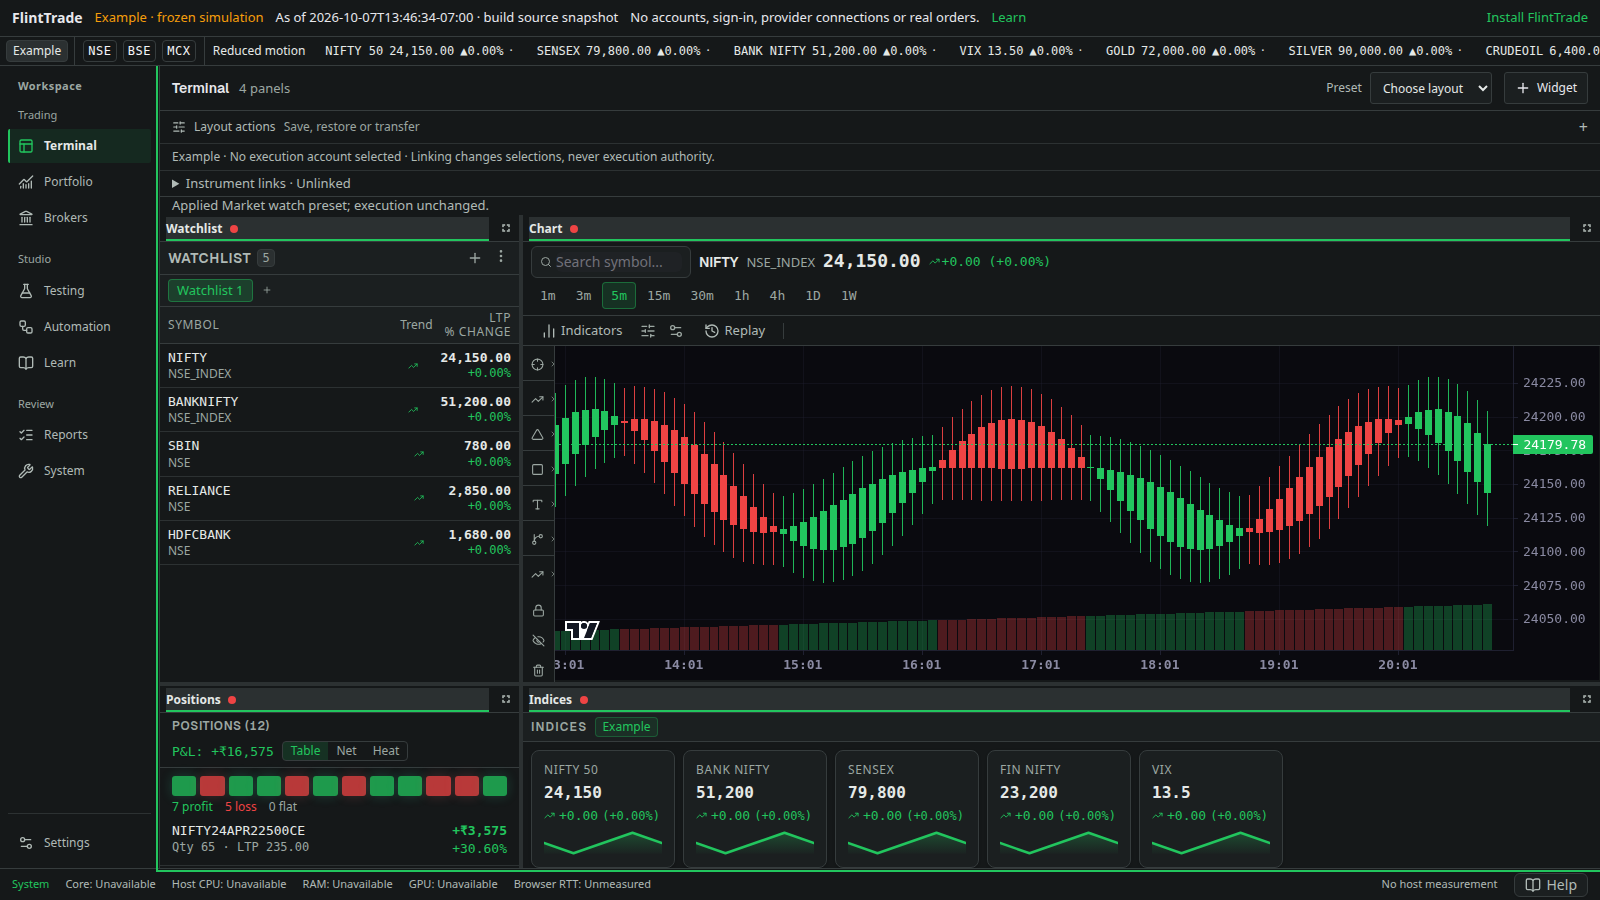
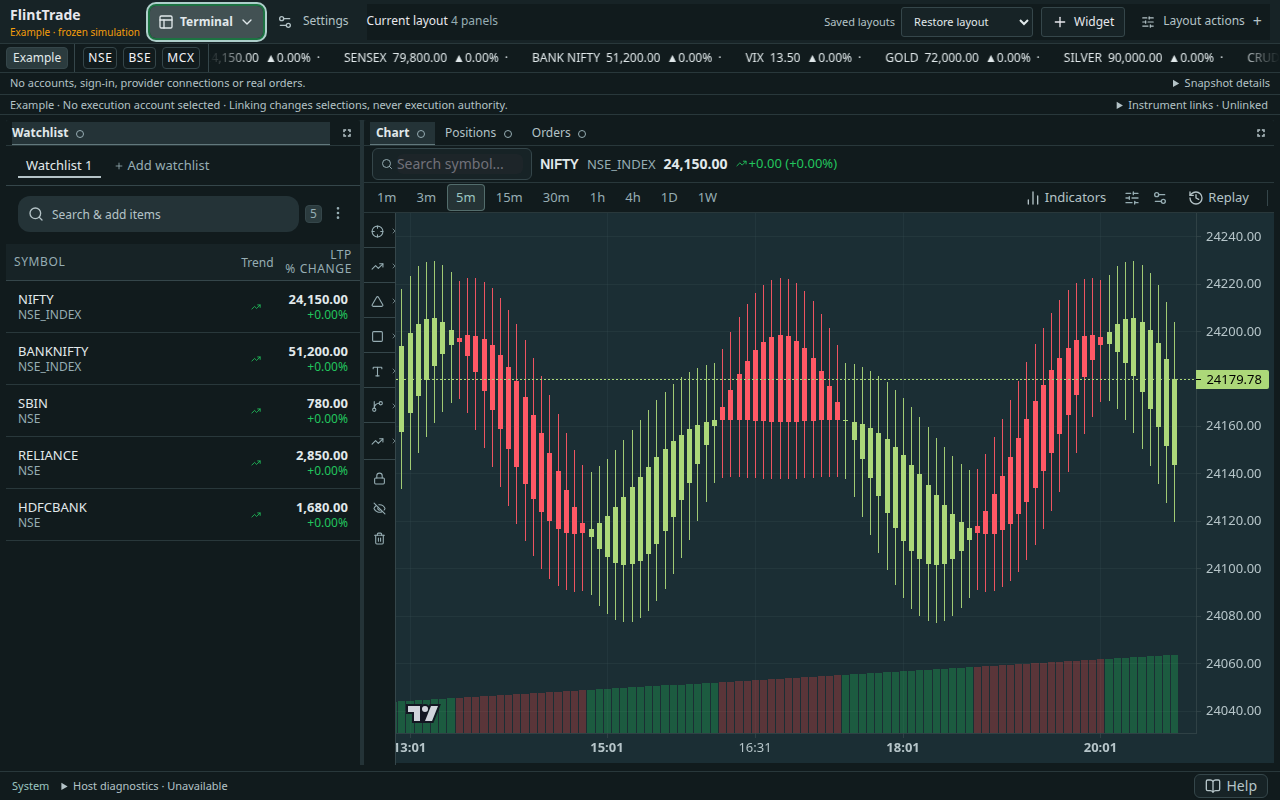
feat(site): add product entry and retain intro focus ownership
Add Explore entry, product-led post-intro content, complete docs
navigation and a metadata-free frozen-example workspace image.
Keep protected brand fragments and canonical assets unchanged.

Six focused regressions, production build and typecheck pass. Final
native focus and full site acceptance remain pending; preceding
browser evidence is not promoted onto the final focus correction.
Full unit projection and website policy CI also remain open.

diff --git a/packages/apps/site/src/components/site-entry-regression.test.tsx b/packages/apps/site/src/components/site-entry-regression.test.tsx
@@ -1,0 +1,75 @@
+/** @vitest-environment jsdom */
+import * as React from 'react';
+import { act } from 'react';
+import { createRoot } from 'react-dom/client';
+import { afterEach, beforeEach, expect, it, vi } from 'vitest';
+import { IntroHandoff } from './intro-handoff';
+import { ProductIntroduction } from './product-introduction';
+import ExplorePage from '../app/explore/page';
+let container: HTMLDivElement;
+let root: ReturnType<typeof createRoot>;
+let finish: () => void;
+let preference: EventTarget;
+let getAnimations: ReturnType<typeof vi.fn>;
+beforeEach(() => {
+  vi.stubGlobal('React', React); vi.stubGlobal('IS_REACT_ACT_ENVIRONMENT', true);
+  preference = new EventTarget();
+  vi.stubGlobal('matchMedia', () => preference);
+  vi.stubGlobal('requestAnimationFrame', (fn: FrameRequestCallback) => { fn(0); return 1; });
+  vi.stubGlobal('cancelAnimationFrame', vi.fn());
+  const finished = new Promise<void>(resolve => { finish = resolve; });
+  getAnimations = vi.fn(() => [{ effect: { getComputedTiming: () => ({ iterations: 1 }) }, finished }]);
+  Object.defineProperty(Element.prototype, 'getAnimations', { configurable: true, value: getAnimations });
+  container = document.createElement('div'); document.body.append(container); root = createRoot(container);
+});
+afterEach(async () => { await act(async () => root.unmount()); container.remove(); delete (Element.prototype as Partial<Element>).getAnimations; vi.restoreAllMocks(); vi.unstubAllGlobals(); });
+async function mount() {
+  await act(async () => root.render(<><button id="outside">Outside</button><IntroHandoff product={<h1>Product</h1>}><a href="/download">Install</a><a href="/docs">Docs</a></IntroHandoff></>));
+}
+it('keeps focused intro controls visible until focus leaves the boundary', async () => {
+  await mount(); const links = container.querySelectorAll('a'); links[0].focus();
+  await act(async () => finish());
+  expect(container.querySelector<HTMLElement>('[data-site-intro]')!.hidden).toBe(false);
+  expect(document.activeElement).toBe(links[0]);
+  await act(async () => links[1].focus());
+  expect(container.querySelector<HTMLElement>('[data-site-intro]')!.hidden).toBe(false);
+  await act(async () => container.querySelector<HTMLButtonElement>('#outside')!.focus());
+  expect(container.querySelector<HTMLElement>('[data-site-intro]')!.hidden).toBe(true);
+  expect(document.activeElement?.id).toBe('outside');
+});
+it('does not steal focus outside the intro when finite animations finish', async () => {
+  await mount(); container.querySelector<HTMLButtonElement>('#outside')!.focus();
+  await act(async () => finish());
+  expect(container.querySelector<HTMLElement>('[data-site-intro]')!.hidden).toBe(true);
+  expect(document.activeElement?.id).toBe('outside');
+});
+it('keeps the intro available without animation inspection', async () => {
+  delete (Element.prototype as Partial<Element>).getAnimations; await mount();
+  await act(async () => finish());
+  expect(container.querySelector<HTMLElement>('[data-site-intro]')!.hidden).toBe(false);
+});
+it('resamples finite animations when the motion preference changes', async () => {
+  await mount(); let finishReplacement!: () => void;
+  const finished = new Promise<void>(resolve => { finishReplacement = resolve; });
+  getAnimations.mockReturnValue([{ effect: { getComputedTiming: () => ({ iterations: 1 }) }, finished }]);
+  await act(async () => { preference.dispatchEvent(new Event('change')); finish(); });
+  expect(getAnimations).toHaveBeenCalledTimes(2);
+  expect(container.querySelector<HTMLElement>('[data-site-intro]')!.hidden).toBe(false);
+  await act(async () => finishReplacement());
+  expect(container.querySelector<HTMLElement>('[data-site-intro]')!.hidden).toBe(true);
+});
+it('removes the preference observer and ignores completion after unmount', async () => {
+  const remove = vi.spyOn(preference, 'removeEventListener'); await mount();
+  await act(async () => root.render(null)); await act(async () => finish());
+  expect(remove).toHaveBeenCalledWith('change', expect.any(Function));
+  preference.dispatchEvent(new Event('change')); expect(getAnimations).toHaveBeenCalledTimes(1);
+});
+it('keeps home to explore, but explore enters the generated app rather than itself', async () => {
+  await act(async () => root.render(<ProductIntroduction />));
+  expect(container.querySelector('.product-entry-actions a')?.getAttribute('href')).toBe('/explore');
+  await act(async () => root.render(<ExplorePage />));
+  expect(container.querySelector('.product-entry-actions a')?.getAttribute('href')).toBe('/demo-app/terminal');
+  expect(container.querySelector('.product-entry-actions a')?.textContent).toContain('Choose a layout');
+  expect(container.textContent).not.toMatch(/pending visual acceptance|current workspace imagery/i);
+  expect(container.textContent).toContain('No broker is connected and no orders are sent.');
+});

diff --git a/packages/apps/site/src/app/presentation.css b/packages/apps/site/src/app/presentation.css
@@ -549,3 +549,58 @@ html {
     padding-top: 32px;
   }
 }
+
+/* The intro boundary creates no box and never alters signature geometry.
+   It is retired only after its actual finite animations have settled. */
+.site-intro-boundary,
+.site-product-boundary { display: contents; }
+.site-intro-boundary[hidden],
+.site-product-boundary[hidden] { display: none; }
+
+.product-introduction {
+  position: relative;
+  z-index: 1;
+  padding: 64px 0 48px;
+  text-align: center;
+}
+.product-eyebrow { margin: 0 0 22px; color: var(--site-text-secondary); font-size: 12px; letter-spacing: .12em; text-transform: uppercase; }
+.product-introduction h1 { max-width: 960px; margin: 0 auto; font-size: clamp(40px, 6vw, 78px); line-height: 1.08; font-weight: 650; letter-spacing: -.045em; text-wrap: balance; }
+.product-introduction h1 span { color: var(--site-accent); }
+.product-introduction-copy { max-width: 620px; margin: 24px auto; color: var(--site-text-secondary); line-height: 1.7; font-size: 17px; text-wrap: pretty; }
+.product-entry-actions { display: flex; justify-content: center; flex-wrap: wrap; gap: 12px; margin: 28px 0 48px; }
+.product-entry-actions .button { border-radius: 999px; min-height: 48px; }
+.product-monitor { width: min(100%, 1080px); margin: 0 auto 56px; perspective: 1600px; }
+.product-monitor-screen { overflow: hidden; border: 10px solid #101819; border-bottom-width: 18px; border-radius: 14px; background: #101819; transform: rotateY(-7deg) rotateX(2deg); box-shadow: 14px 22px 70px #0004; }
+.product-monitor-screen img { display: block; width: 100%; height: auto; border-radius: 3px; }
+.product-monitor-stand { width: 140px; height: 52px; margin: 0 auto; background: linear-gradient(105deg, #304044, #182427); clip-path: polygon(22% 0, 78% 0, 88% 90%, 100% 95%, 100% 100%, 0 100%, 0 95%, 12% 90%); }
+.product-monitor figcaption { max-width: 760px; margin: 18px auto 0; color: var(--site-text-secondary); font-size: 12px; line-height: 1.6; }
+@media (max-width: 768px) { .product-monitor-screen { transform: none; border-width: 5px; border-bottom-width: 10px; border-radius: 8px; } .product-monitor-stand { height: 30px; width: 88px; } }
+.workspace-entry-grid { display: grid; grid-template-columns: repeat(3, minmax(0, 1fr)); gap: 20px; text-align: left; }
+.workspace-entry-grid > a { display: flex; flex-direction: column; min-width: 0; gap: 18px; padding: 28px; border: 1px solid var(--site-border); border-radius: 24px; background: var(--site-surface-card); }
+.workspace-entry-grid > a:hover { border-color: var(--site-accent); }
+.workspace-entry-grid .entry-number { font-size: 11px; color: var(--site-accent); letter-spacing: .12em; }
+.workspace-entry-grid strong { font-size: 25px; letter-spacing: -.025em; line-height: 1.2; }
+.workspace-entry-grid span:not(.entry-number) { color: var(--site-text-secondary); font-size: 14px; line-height: 1.65; }
+.workspace-entry-grid em { display: flex; align-items: center; gap: 8px; margin-top: auto; color: var(--site-accent); font-style: normal; font-size: 12px; line-height: 1.5; }
+.product-example-note { max-width: 790px; margin: 22px auto 0; color: var(--site-text-secondary); font-size: 12px; line-height: 1.6; }
+.product-section > .product-heading { margin-inline: auto; text-align: center; }
+.product-section > .product-heading p { margin-inline: auto; }
+.product-figure img { border-radius: 20px; }
+.journey-steps { display: grid; grid-template-columns: repeat(3, minmax(0, 1fr)); gap: 24px; padding: 0; list-style: none; }
+.journey-steps li { border-top: 2px solid var(--site-accent); padding-top: 22px; }
+.journey-steps strong { font-size: 20px; }
+.journey-steps p { color: var(--site-text-secondary); line-height: 1.7; font-size: 14px; margin: 16px 0; }
+.journey-steps a { color: var(--site-accent); font-size: 14px; }
+.site-footer nav { display: flex; flex-wrap: wrap; gap: 12px 24px; max-width: 700px; }
+.site-shell .subpage { max-width: 1180px; }
+.site-shell .subpage .feature-card { border-radius: 20px; padding: 28px; }
+.site-shell .subpage .feature-card h2 { margin-top: 16px; }
+.site-shell .subpage .code-panel { border-radius: 16px; }
+@media (max-width: 768px) {
+  .workspace-entry-grid,
+  .journey-steps { grid-template-columns: minmax(0, 1fr); }
+  .product-introduction { padding-top: 38px; }
+  .product-entry-actions { margin-bottom: 30px; }
+  .workspace-entry-grid > a { padding: 24px; }
+  .product-introduction-copy { font-size: 15px; }
+}

diff --git a/packages/apps/site/src/components/product-introduction.tsx b/packages/apps/site/src/components/product-introduction.tsx
@@ -1,0 +1,29 @@
+import { ArrowRight, ExternalLink } from 'lucide-react';
+import Link from 'next/link';
+import Image from 'next/image';
+
+/** Static post-intro composition. No market quotes or unqualified screenshot. */
+export function ProductIntroduction({ entry = 'explore' }: { entry?: 'explore' | 'app' }) {
+  return <section className="section product-introduction" aria-labelledby="workspace-heading">
+    <p className="product-eyebrow">FlintTrade · self-hosted workspace</p>
+    <h1 id="workspace-heading">Your market workspace.<br /><span>Your rules.</span></h1>
+    <p className="product-introduction-copy">Research, practise and review Indian markets. Choose a layout, explore with example data, then decide what to install.</p>
+    <div className="product-entry-actions">
+      {entry === 'app'
+        ? <a className="button primary" href="/demo-app/terminal">Choose a layout <ArrowRight size={18} aria-hidden="true" /></a>
+        : <Link className="button primary" href="/explore">Explore the workspace <ArrowRight size={18} aria-hidden="true" /></Link>}
+      <Link className="button secondary" href="/download">Install the web app</Link>
+    </div>
+    <figure className="product-monitor">
+      <div className="product-monitor-screen"><Image src="/product/trading.webp" width={1280} height={800} sizes="(max-width: 768px) 94vw, 1080px" alt="Trading workspace with frozen example data, no connected broker or real orders" /></div>
+      <div className="product-monitor-stand" aria-hidden="true" />
+      <figcaption>Trading workspace · frozen example data, not live market data or trading performance. No broker is connected and no orders are sent.</figcaption>
+    </figure>
+    <div className="workspace-entry-grid" aria-label="Explore FlintTrade workspaces">
+      <a href="/demo-app/terminal" target="_blank" rel="noopener noreferrer"><span className="entry-number">01 / TRADING</span><strong>Choose your layout.</strong><span>Charts, watchlists and account books. Save a layout without changing permissions.</span><em>Open Trading · example data <ExternalLink size={16} aria-hidden="true" /></em></a>
+      <a href="/demo-app/testing" target="_blank" rel="noopener noreferrer"><span className="entry-number">02 / STUDIO</span><strong>Give ideas room.</strong><span>Explore strategy configuration before a run. No provider connection is required to look around.</span><em>Open Studio · example data <ExternalLink size={16} aria-hidden="true" /></em></a>
+      <a href="/demo-app/reports" target="_blank" rel="noopener noreferrer"><span className="entry-number">03 / REVIEW</span><strong>Keep the evidence.</strong><span>Inspect example trade history and fees, separate from live outcomes.</span><em>Open Review · example data <ExternalLink size={16} aria-hidden="true" /></em></a>
+    </div>
+    <p className="product-example-note">Example data only. No broker is connected and no orders are sent. Explore the public demo before setting up your own workspace.</p>
+  </section>;
+}

diff --git a/packages/apps/site/src/components/intro-handoff.tsx b/packages/apps/site/src/components/intro-handoff.tsx
@@ -1,0 +1,56 @@
+'use client';
+
+import { useEffect, useRef, useState, type ReactNode } from 'react';
+
+/** Retire only the completed intro; never hide the user's keyboard focus. */
+export function IntroHandoff({ children, product }: { children: ReactNode; product: ReactNode }) {
+  const intro = useRef<HTMLDivElement>(null);
+  const [settled, setSettled] = useState(false);
+  useEffect(() => {
+    const element = intro.current;
+    // Keep the original content usable when animation inspection is unavailable.
+    if (!element?.getAnimations) return;
+    let disposed = false;
+    let ready = false;
+    let generation = 0;
+    let frame = 0;
+    const retire = () => {
+      if (!disposed && ready && !element.contains(document.activeElement)) setSettled(true);
+    };
+    // Focus may move between intro links. Inspect its final owner after focusout.
+    const onFocusOut = (event: FocusEvent) => {
+      // Native Tab dispatch can run microtasks before focusin. relatedTarget
+      // owns that transition; never retire between two controls in this intro.
+      if (event.relatedTarget instanceof Node && element.contains(event.relatedTarget)) return;
+      queueMicrotask(retire);
+    };
+    const observe = () => {
+      ready = false;
+      const current = ++generation;
+      cancelAnimationFrame(frame);
+      frame = requestAnimationFrame(() => {
+        const signature = element.getAnimations({ subtree: true }).filter((animation) =>
+          animation.effect?.getComputedTiming().iterations !== Infinity);
+        void Promise.allSettled(signature.map((animation) => animation.finished)).then(() => {
+          if (disposed || current !== generation) return;
+          ready = true;
+          retire();
+        });
+      });
+    };
+    const preference = typeof matchMedia === 'function' ? matchMedia('(prefers-reduced-motion: reduce)') : null;
+    element.addEventListener('focusout', onFocusOut);
+    preference?.addEventListener('change', observe);
+    observe();
+    return () => {
+      disposed = true;
+      cancelAnimationFrame(frame);
+      element.removeEventListener('focusout', onFocusOut);
+      preference?.removeEventListener('change', observe);
+    };
+  }, []);
+  return <>
+    <div ref={intro} className="site-intro-boundary" data-site-intro hidden={settled}>{children}</div>
+    <div className="site-product-boundary" data-site-product hidden={!settled}>{product}</div>
+  </>;
+}

diff --git a/packages/apps/site/src/app/explore/page.tsx b/packages/apps/site/src/app/explore/page.tsx
@@ -1,12 +1,29 @@
 import type { Metadata } from 'next';
-import { permanentRedirect } from 'next/navigation';
+import Link from 'next/link';
+import { ProductIntroduction } from '@/components/product-introduction';
+import { SiteHeader } from '@/components/site-header';
+import { SiteFooter } from '@/components/site-footer';
 
 export const metadata: Metadata = {
-  title: 'Demo (example data)',
-  description:
-    'Open the FlintTrade terminal demo as a full-page app experience.',
+  title: 'Explore the workspace',
+  description: 'Choose a FlintTrade public-demo workspace, explore layouts with example data, and read the setup requirements.',
 };
 
 export default function ExplorePage() {
-  permanentRedirect('/demo-app/welcome');
+  return <div className="site-shell product-site">
+    <SiteHeader activePath="/explore" />
+    <main id="site-content" tabIndex={-1}>
+      <ProductIntroduction entry="app" />
+      <section className="section product-section" aria-labelledby="explore-next">
+        <header className="product-heading"><h2 id="explore-next">From a first look to your own setup.</h2><p>The public demo is a frozen simulation, not a connected account. Layout selection and trading authority are separate.</p></header>
+        <ol className="journey-steps">
+          <li><strong>Explore with example data</strong><p>Open Trading, use the layout chooser and inspect the available panels. Public-demo values are not live prices or performance.</p><Link href="/demo-app/welcome" target="_blank" rel="noopener noreferrer">Start the demo (example data) ↗</Link></li>
+          <li><strong>Read the requirements</strong><p>Review supported workflows and current availability before installing. Native broker connections remain unavailable.</p><Link href="/docs/user-guide">Read the user guide →</Link></li>
+          <li><strong>Install, then practise</strong><p>Inspect the install scripts and choose your platform. Desktop downloads remain withheld until a complete verified release exists.</p><Link href="/download">Choose installation instructions →</Link></li>
+        </ol>
+        <div className="product-links"><Link href="/docs/disclaimer">Read the risk disclaimer →</Link><Link href="/docs/inventory">Inspect feature availability →</Link></div>
+      </section>
+    </main>
+    <SiteFooter />
+  </div>;
 }

diff --git a/packages/apps/site/src/components/intro-handoff.test.tsx b/packages/apps/site/src/components/intro-handoff.test.tsx
@@ -1,0 +1,31 @@
+/** @vitest-environment jsdom */
+import * as React from 'react';
+import { act } from 'react';
+import { createRoot } from 'react-dom/client';
+import { afterEach, expect, it, vi } from 'vitest';
+import { IntroHandoff } from './intro-handoff';
+afterEach(() => { vi.restoreAllMocks(); vi.unstubAllGlobals(); });
+it('waits for the actual finite signature, ignores continuous decoration, and retires only its own boundary', async () => {
+  vi.stubGlobal('React', React);
+  vi.stubGlobal('IS_REACT_ACT_ENVIRONMENT', true);
+  let finish!: () => void;
+  const finished = new Promise<void>((resolve) => { finish = resolve; });
+  const getAnimations = vi.fn(() => [
+    { effect: { getComputedTiming: () => ({ iterations: 1 }) }, finished },
+    { effect: { getComputedTiming: () => ({ iterations: Infinity }) }, finished: new Promise(() => {}) },
+  ]);
+  Object.defineProperty(Element.prototype, 'getAnimations', { configurable: true, value: getAnimations });
+  vi.stubGlobal('requestAnimationFrame', (fn: FrameRequestCallback) => { fn(0); return 1; });
+  vi.stubGlobal('cancelAnimationFrame', vi.fn());
+  const container = document.createElement('div'); document.body.append(container);
+  const root = createRoot(container);
+  try {
+    await act(async () => root.render(<IntroHandoff product={<h1>Product workspace</h1>}><section className="hero">Original signature</section></IntroHandoff>));
+    const intro = container.querySelector<HTMLElement>('[data-site-intro]')!;
+    const product = container.querySelector<HTMLElement>('[data-site-product]')!;
+    expect(intro.hidden).toBe(false); expect(product.hidden).toBe(true);
+    await act(async () => finish());
+    expect(intro.hidden).toBe(true); expect(product.hidden).toBe(false);
+    expect(intro.textContent).toBe('Original signature');
+  } finally { await act(async () => root.unmount()); container.remove(); delete (Element.prototype as Partial<Element>).getAnimations; }
+});

diff --git a/packages/apps/site/src/lib/live-demo-routing.test.ts b/packages/apps/site/src/lib/live-demo-routing.test.ts
@@ -51,7 +51,7 @@ describe('site sandbox demo routing', () => {
     expect(explorePage).not.toContain('<iframe');
   });
 
-  it('redirects /demo and /explore with HTTP 308 from next start', async () => {
+  it('redirects /demo and serves the real /explore entry from next start', async () => {
     const siteRoot = process.cwd();
     const nextBin = path.join(siteRoot, 'node_modules', 'next', 'dist', 'bin', 'next');
     await runProcess(process.execPath, [nextBin, 'build', '--webpack'], siteRoot);
@@ -82,7 +82,7 @@ describe('site sandbox demo routing', () => {
       }
       if (!ready) throw new Error(`next start did not become ready\n${output}`);
 
-      for (const route of ['/demo', '/explore']) {
+      for (const route of ['/demo']) {
         const response = await fetch(`http://127.0.0.1:${port}${route}`, {
           method: 'HEAD',
           redirect: 'manual',
@@ -91,6 +91,9 @@ describe('site sandbox demo routing', () => {
         const location = response.headers.get('location') ?? '';
         expect(new URL(location, `http://127.0.0.1:${port}`).pathname, route).toBe('/demo-app/welcome');
       }
+      const explore = await fetch(`http://127.0.0.1:${port}/explore`);
+      expect(explore.status).toBe(200);
+      expect(await explore.text()).toContain('Choose your layout.');
     } finally {
       child.kill('SIGTERM');
     }

diff --git a/packages/apps/site/src/app/page.tsx b/packages/apps/site/src/app/page.tsx
@@ -4,6 +4,8 @@ import Link from 'next/link';
 
 import { HeroCinematic } from '@/components/hero-cinematic';
 import { ProductOverview } from '@/components/product-overview';
+import { ProductIntroduction } from '@/components/product-introduction';
+import { IntroHandoff } from '@/components/intro-handoff';
 import SiteScrollWorld from '@/components/site-scroll-world';
 import { SiteFooter } from '@/components/site-footer';
 import { SiteHeader } from '@/components/site-header';
@@ -44,6 +46,7 @@ export default async function HomePage() {
       <SiteHeader />
       <main id="site-content" tabIndex={-1}>
 
+      <IntroHandoff product={<ProductIntroduction />}>
       <section className="section hero" data-scroll-chapter="0">
         <div className="hero-copy">
           <div className="hero-logo-stage" aria-hidden="true">
@@ -97,6 +100,7 @@ export default async function HomePage() {
           </div>
         </div>
       </section>
+      </IntroHandoff>
 
       <aside className="product-notice" aria-label="Software status">
         <p>v0.0.1 is not production ready. Use Practice and example data first; Live mode remains your own risk.</p>

diff --git a/packages/apps/site/src/app/page.test.ts b/packages/apps/site/src/app/page.test.ts
@@ -69,7 +69,7 @@ describe('public website journey', () => {
       expect(link?.getAttribute('rel')).toContain('noopener');
     }
     const figures = [...container.querySelectorAll('figure')];
-    expect(figures).toHaveLength(3);
+    expect(figures).toHaveLength(4);
     for (const figure of figures) {
       const caption = figure.querySelector('figcaption')?.textContent;
       expect(caption).toContain('example data');
@@ -89,7 +89,7 @@ describe('public website journey', () => {
     await act(async () => menu?.querySelector('summary')?.click());
     expect(menu?.open).toBe(true);
     const links = [...(menu?.querySelectorAll('a') ?? [])].map((link) => link.getAttribute('href'));
-    expect(links).toEqual(['/download', '/demo-app/welcome', '/docs', '/api-reference', '/mcp', '/contribute']);
+    expect(links).toEqual(['/explore', '/download', '/demo-app/welcome', '/docs', '/api-reference', '/mcp', '/contribute']);
     const skip = container.querySelector<HTMLAnchorElement>('a[href="#site-content"]');
     expect(skip?.textContent).toBe('Skip to content');
     expect(container.querySelector('#site-content')?.tagName).toBe('MAIN');

diff --git a/packages/apps/site/src/components/site-footer.tsx b/packages/apps/site/src/components/site-footer.tsx
@@ -4,14 +4,18 @@ export function SiteFooter() {
   return (
     <footer className="site-footer">
       <p>FlintTrade is AGPL-3.0 open source software built for self-hosted Indian market workflows.</p>
-      <div>
+      <nav aria-label="Footer navigation">
+        <Link href="/explore">Explore</Link>
+        <Link href="/download">Install the web app</Link>
         <Link href="/docs/disclaimer">Risk disclaimer</Link>
         <Link href="/docs/desktop">Desktop App</Link>
         <Link href="/docs">Docs</Link>
+        <Link href="/api-reference">API reference</Link>
         <Link href="/mcp">MCP</Link>
         <Link href="/contribute">Contribute</Link>
         <a href="/llms.txt">llms.txt</a>
-      </div>
+        <a href="/llms-full.txt">Full documentation text</a>
+      </nav>
     </footer>
   );
 }

diff --git a/packages/apps/site/src/components/site-header.tsx b/packages/apps/site/src/components/site-header.tsx
@@ -5,6 +5,7 @@ import { GithubIcon } from '@/components/github-icon';
 import { ThemeToggle } from '@/components/theme-toggle';
 
 const navItems = [
+  { href: '/explore', label: 'Explore' },
   { href: '/download', label: 'Download' },
   { href: '/demo-app/welcome', label: 'Demo (example data)', newWindow: true },
   { href: '/docs', label: 'Docs' },

diff --git a/packages/apps/site/src/lib/layout.shared.tsx b/packages/apps/site/src/lib/layout.shared.tsx
@@ -14,6 +14,7 @@ export function baseOptions(): BaseLayoutProps {
       url: '/',
     },
     links: [
+      { text: 'Explore', url: '/explore', active: 'url' },
       { text: 'Docs', url: '/docs', active: 'nested-url' },
       { text: 'API', url: '/api-reference', active: 'url' },
       { text: 'MCP', url: '/mcp', active: 'url' },
